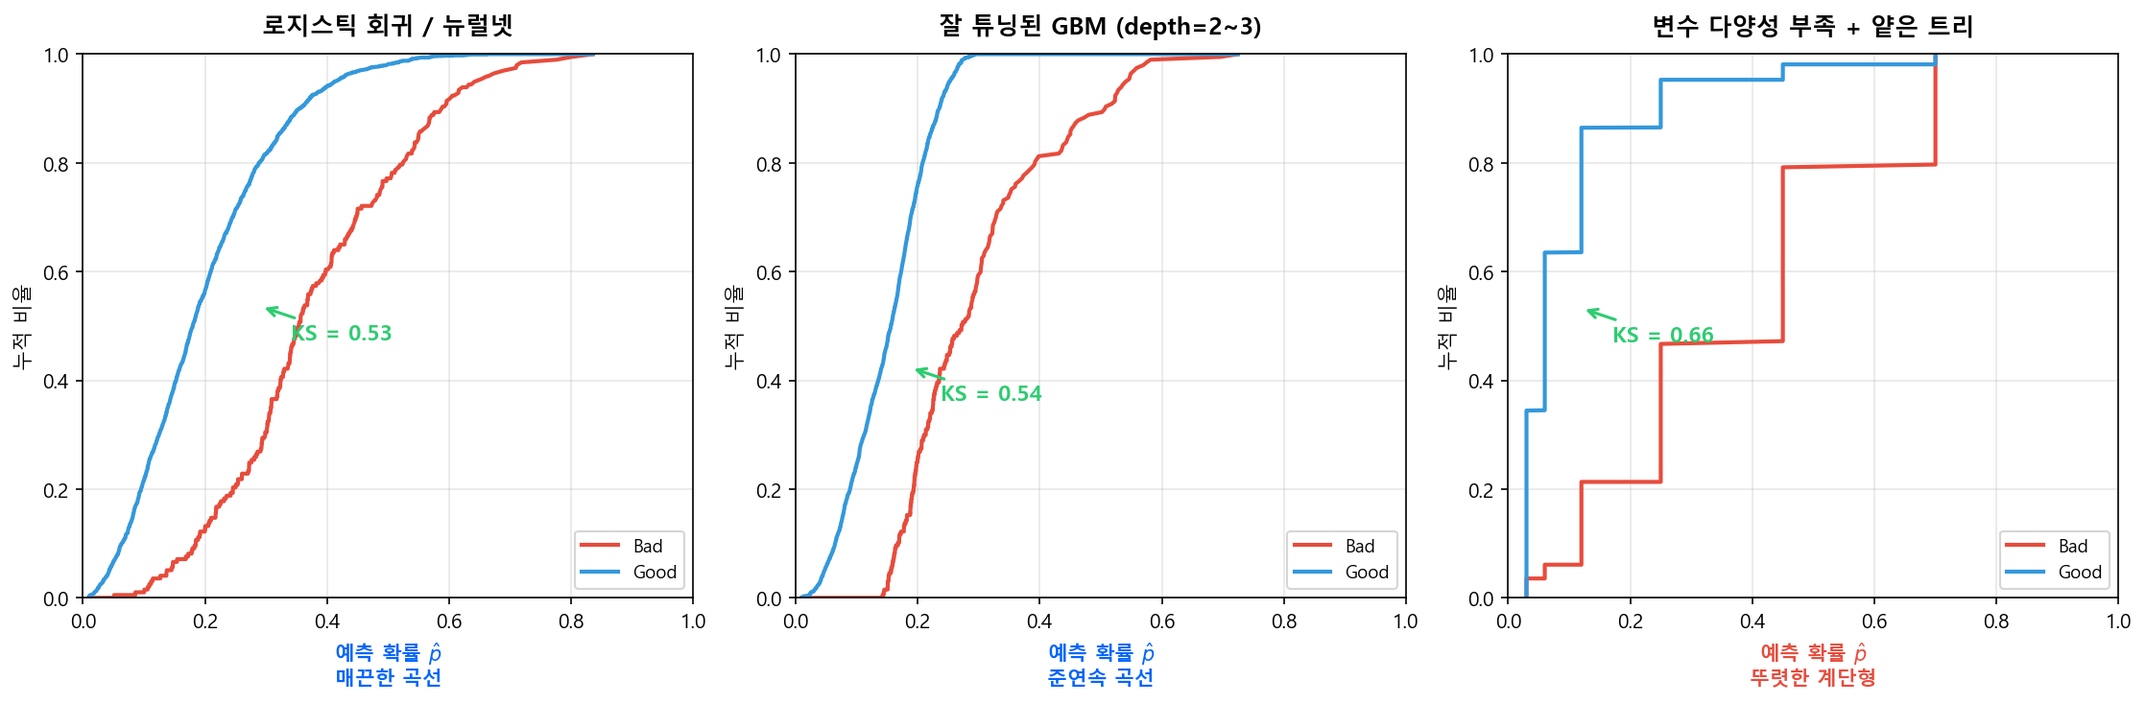
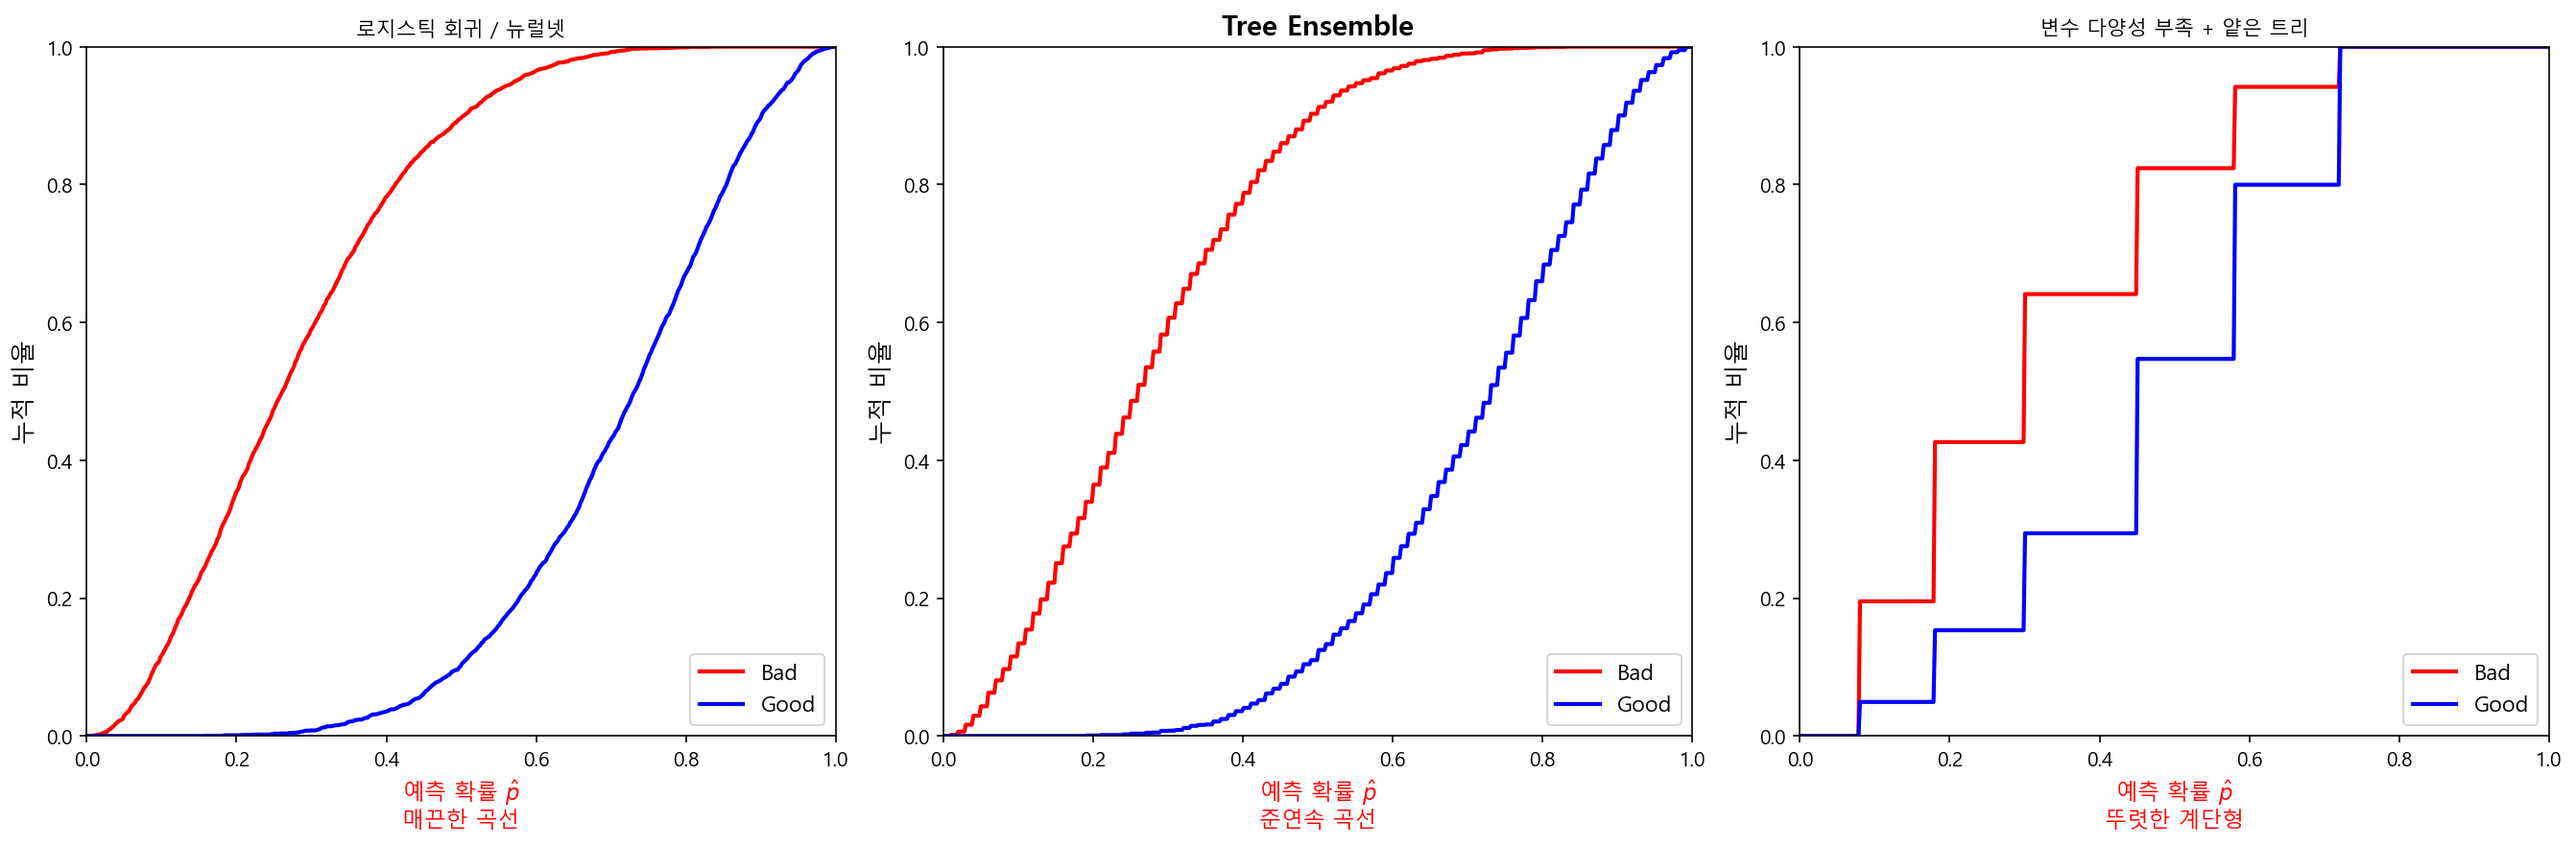
docs: learning_rate_effect 그림 수정(train loss 단조 감소), 1-Depth GBM·KS Plot 서술 개선

diff --git a/docs/ml/part3_tree_ensemble/images/gen_learning_rate_effect.py b/docs/ml/part3_tree_ensemble/images/gen_learning_rate_effect.py
@@ -1,0 +1,130 @@
+"""Learning Rate에 따른 GBM 수렴 패턴 — 올바른 시뮬레이션.
+
+Train loss는 라운드가 늘수록 단조 감소해야 한다.
+Valid loss는 과적합 시점 이후 상승(U자)한다.
+η가 작을수록 과적합 시점이 늦고, 최종 valid loss 최솟값이 낮다.
+"""
+
+import numpy as np
+import matplotlib.pyplot as plt
+import matplotlib.font_manager as fm
+
+# ── 한글 폰트 설정 ──
+plt.rcParams['font.family'] = 'Malgun Gothic'
+plt.rcParams['axes.unicode_minus'] = False
+
+np.random.seed(42)
+
+
+def make_curves(n_rounds, eta_label, train_floor, train_speed,
+                valid_min, valid_min_round, valid_rise_speed, noise_std):
+    """Train/Valid loss 곡선 생성.
+
+    - Train: 지수 감소 (단조 하강) + 작은 노이즈
+    - Valid: 지수 감소 후 서서히 상승 (U자) + 노이즈
+    """
+    t = np.arange(1, n_rounds + 1)
+
+    # Train loss: 단조 감소 — 지수 감소 곡선
+    train_base = train_floor + (0.50 - train_floor) * np.exp(-train_speed * t)
+    # 단조성 보장: cumulative minimum
+    train_base = np.minimum.accumulate(train_base)
+
+    # Valid loss: U자 — 감소 후 상승
+    decay = (0.50 - valid_min) * np.exp(-train_speed * 0.8 * t)
+    rise = valid_rise_speed * np.maximum(t - valid_min_round, 0) ** 1.3
+    valid_base = valid_min + decay + rise
+
+    # 노이즈 추가
+    train_noisy = train_base + np.random.normal(0, noise_std * 0.3, n_rounds)
+    valid_noisy = valid_base + np.random.normal(0, noise_std, n_rounds)
+
+    # Train은 단조 감소 보장 (노이즈 후에도)
+    train_noisy = np.minimum.accumulate(train_noisy)
+    # 초기값 고정
+    train_noisy[0] = 0.50
+    valid_noisy[0] = 0.50
+
+    return t, train_noisy, valid_noisy, valid_min_round
+
+
+# ── 세 시나리오 파라미터 ──
+configs = [
+    {
+        'n_rounds': 200,
+        'eta_label': r'$\eta$ = 0.3 (큰 학습률)',
+        'color': '#e74c3c',
+        'train_floor': 0.22,
+        'train_speed': 0.025,
+        'valid_min': 0.265,
+        'valid_min_round': 7,
+        'valid_rise_speed': 0.0008,
+        'noise_std': 0.008,
+    },
+    {
+        'n_rounds': 600,
+        'eta_label': r'$\eta$ = 0.1 (중간)',
+        'color': '#e67e22',
+        'train_floor': 0.18,
+        'train_speed': 0.008,
+        'valid_min': 0.250,
+        'valid_min_round': 45,
+        'valid_rise_speed': 0.00012,
+        'noise_std': 0.008,
+    },
+    {
+        'n_rounds': 2000,
+        'eta_label': r'$\eta$ = 0.01 (작은 학습률)',
+        'color': '#2980b9',
+        'train_floor': 0.15,
+        'train_speed': 0.002,
+        'valid_min': 0.238,
+        'valid_min_round': 200,
+        'valid_rise_speed': 0.0000012,
+        'noise_std': 0.006,
+    },
+]
+
+# ── 그리기 ──
+fig, axes = plt.subplots(1, 3, figsize=(18, 5), facecolor='white')
+fig.suptitle('Learning Rate에 따른 GBM 수렴 패턴', fontsize=16, fontweight='bold', y=1.02)
+
+for ax, cfg in zip(axes, configs):
+    t, train_loss, valid_loss, best_round = make_curves(
+        cfg['n_rounds'], cfg['eta_label'],
+        cfg['train_floor'], cfg['train_speed'],
+        cfg['valid_min'], cfg['valid_min_round'],
+        cfg['valid_rise_speed'], cfg['noise_std'],
+    )
+
+    # 실제 valid 최솟값 라운드 찾기
+    actual_best = np.argmin(valid_loss) + 1
+    actual_best_loss = valid_loss[actual_best - 1]
+
+    ax.plot(t, train_loss, color=cfg['color'], linewidth=1.2, label='Train Loss')
+    ax.plot(t, valid_loss, color='#555555', linewidth=1.0, linestyle='--',
+            alpha=0.8, label='Valid Loss')
+
+    # Best 포인트 표시
+    ax.plot(actual_best, actual_best_loss, 'o', color='#27ae60', markersize=8, zorder=5)
+    ax.axvline(actual_best, color='#27ae60', linestyle=':', alpha=0.6)
+    ax.annotate(f'Best: {actual_best}라운드\nLoss={actual_best_loss:.3f}',
+                xy=(actual_best, actual_best_loss),
+                xytext=(0.45, 0.55), textcoords='axes fraction',
+                fontsize=9, color='#27ae60', fontweight='bold',
+                bbox=dict(boxstyle='round,pad=0.3', facecolor='white',
+                          edgecolor='#27ae60', alpha=0.9),
+                arrowprops=dict(arrowstyle='->', color='#27ae60', lw=1.2))
+
+    ax.set_title(cfg['eta_label'], fontsize=13, color=cfg['color'], fontweight='bold')
+    ax.set_xlabel('Boosting 라운드', fontsize=11)
+    ax.set_ylabel('Loss', fontsize=11)
+    ax.legend(fontsize=9, loc='upper right')
+    ax.set_ylim(bottom=0.0)
+    ax.grid(True, alpha=0.3)
+
+plt.tight_layout()
+plt.savefig('docs/ml/part3_tree_ensemble/images/learning_rate_effect.png',
+            dpi=150, bbox_inches='tight', facecolor='white')
+plt.close()
+print('Done: learning_rate_effect.png')

diff --git a/docs/ml/part3_tree_ensemble/bias_variance_trees.md b/docs/ml/part3_tree_ensemble/bias_variance_trees.md
@@ -98,13 +98,13 @@ $$
 | 모형 상태 | 예측 확률 분포 | KS/ROC 곡선 형태 |
 |----------|-------------|----------------|
 | 로지스틱 회귀 / 뉴럴넷 | 연속적 — 고객마다 다른 \(\hat{p}\) | 매끈한 곡선 |
-| 잘 튜닝된 GBM | 준연속적 — 리프 수가 충분히 많아 \(\hat{p}\)가 다양 | 곡선에 가까움 |
+| Tree Ensemble | 준연속적 — 리프 수가 충분히 많아 \(\hat{p}\)가 다양 | 곡선에 가까움 |
 | **변수 다양성 부족 + 얕은 트리** | **이산적** — 몇 개의 \(\hat{p}\)에 집중 | **계단형, 꺾이는 지점이 뚜렷** |
 
-![KS Plot 비교: 로지스틱 회귀(매끈) vs 잘 튜닝된 GBM(준연속) vs 변수 다양성 부족(계단형)](images/ks_plot_comparison.png)
+![KS Plot 비교: 로지스틱 회귀(매끈) vs Tree Ensemble(준연속) vs 변수 다양성 부족(계단형)](images/ks_plot_comparison.png)
 
 !!! warning "depth가 얕다고 반드시 멍청한 것은 아니다"
-    실무에서 `max_depth=2~3`은 Boosting의 표준적인 설정이다. 얕은 트리라도 **n_estimators가 충분하고 변수 다양성이 확보**되면, 합산 예측값이 준연속적으로 분포하여 매끈한 KS 곡선이 나온다. 문제는 depth 자체가 아니라 **변수 다양성이 부족할 때**다 — 같은 변수의 같은 지점에서만 반복 분기되면 500그루를 쌓아도 예측 확률은 소수의 값에 몰린다. 이때 KS Plot은 **뚜렷한 계단 형태**를 보이며, 이는 모형이 데이터의 미세한 리스크 차이를 구분하지 못하고 있다는 신호다.
+    `max_depth=2~3` 정도의 얕은 트리라도 **n_estimators가 충분하고 변수 다양성이 확보**되면 좋은 성능을 낼 수 있다. 합산 예측값이 준연속적으로 분포하여 매끈한 KS 곡선이 나온다. 문제는 depth 자체가 아니라 **변수 다양성이 부족할 때**다 — 같은 변수의 같은 지점에서만 반복 분기되면 500그루를 쌓아도 예측 확률은 소수의 값에 몰린다. 이때 KS Plot은 **뚜렷한 계단 형태**를 보이며, 이는 모형이 데이터의 미세한 리스크 차이를 구분하지 못하고 있다는 신호다.
 
 !!! tip "실무 진단법"
     모형 적합 후 KS Plot을 그려보자.
